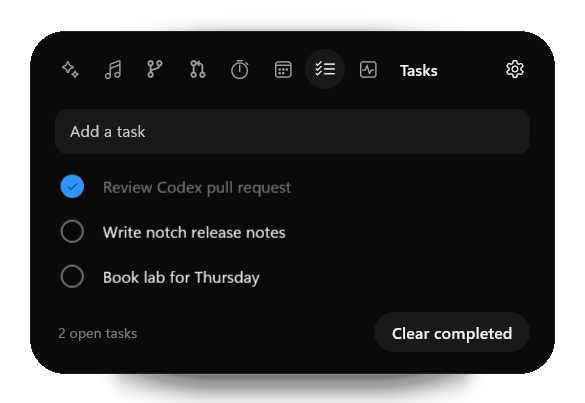
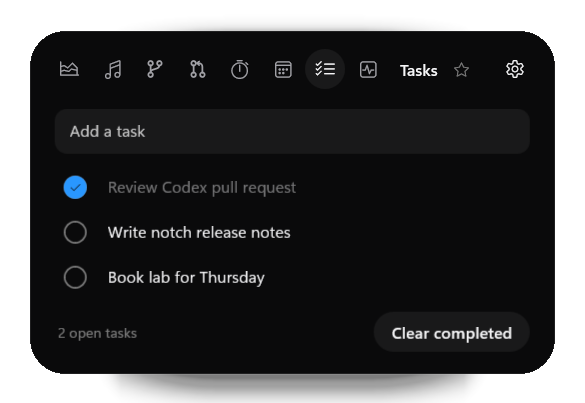
docs: update Developer Island documentation
- README: favorites and the featured compact island, Claude and Codex
  plan usage (Current / Weekly, connecting Claude Code's status line),
  "estimated API equivalent today", Auto-hide in apps, the 60-second
  System history with temperatures and fans, calendar links in
  Credential Manager, --system-report, privacy notes for the new files,
  294 tests, LibreHardwareMonitor acknowledgement; fresh screenshots.
- ARCHITECTURE: named state machine inputs and race safety, modules
  and their cadences, favorites, plan usage, auto-hide rules, secrets,
  the plan_usage_peaks table.
- PERFORMANCE: this iteration's measurements and what disabled
  modules do (nothing).
- DESIGN-AUDIT: iteration 3 audit, including the preservation check.
- STATUS (new, was linked but missing): what was verified and how,
  what was not verified on real hardware or accounts, known limits.

diff --git a/README.md b/README.md
@@ -21,15 +21,18 @@ Developer Island is a small capsule at the top of your screen. It shows your AI 
   - A **live activity** (medium state) appears for song changes, focus sessions, AI events and upcoming meetings, or while you hover.
   - The **expanded** island opens on click.
 - **Spring motion from the anchor.** The capsule morphs on the GPU compositor and grows away from the edge it rests on. Every animation can be interrupted and respects Windows "Animation effects".
-- **Hover that behaves.** A peek opens after a short, deliberate hover (about 280 ms). Hover is judged against the visible capsule, so it never sticks, and a click outside the expanded island closes it without reopening it.
-- **Browser notch.** A top-center island covers the tab strip of a maximized browser. While Chrome, Edge or Firefox is maximized in front, the island retracts into a small notch in the screen edge (48 × 5 px). Hover it for 400 ms or click it to open. You can hide it completely instead, or turn it off per browser.
+- **Your module, in the capsule.** Star any module in the expanded island and the compact island features it: "Claude 68% · €2.96", the song, the focus countdown, "CPU 38% · 54°", "14:30 Robotics". Several favorites take turns every 7 seconds; without favorites the module you opened last is shown. Time-critical signals (focus, next event, system alert, failing CI) stay in front.
+- **Hover that behaves.** A peek opens after a short, deliberate hover (about 280 ms). Hover is judged against the visible capsule, so it never sticks. A capsule that just grew under a resting mouse does not take your next click, and any click outside the expanded island closes it.
+- **Auto-hide in apps.** A top-center island covers tabs and title bars. While an app you list is in front (Chrome, Edge and Firefox by default, or any app you add), the island retracts into a small notch in the screen edge (48 × 5 px). Hover it for 450 ms or click it to open. Choose per app, hide completely instead, or retract only while the app is maximized.
 - **Anywhere you want it.** It sits at Top Center by default. There are five more anchors, or you can drag it anywhere; near an anchor it snaps into place. The monitor, anchor and offset are saved, and the island falls back to the primary monitor when that display is disconnected.
 - **Out of the way.** The window region follows the capsule, leaving the rest of the desktop clickable. Hovering or dragging does not activate the island. It steps aside while a fullscreen app is on its monitor.
 - **Keyboard.** **Ctrl + Alt + Space** opens or closes the island from anywhere; three other combinations are available if another app already uses it. Esc closes the island, and focus returns to where you were. Tab and the arrow keys move through the expanded view.
 - **Tray and autostart.** The notification-area menu offers Show, Hide, Start Focus, New Task, Settings and Quit. Start with Windows is a native per-user setting, with no scripts.
 
 <p align="center">
-  <img src="docs/assets/notch.png" alt="The browser notch: a small dark tab in the top screen edge" width="120">
+  <img src="docs/assets/compact-featured-claude.png" alt="Compact island featuring Claude: plan usage and today's estimated API equivalent" width="440">
+  <br>
+  <img src="docs/assets/notch.png" alt="The notch: a small dark tab in the top screen edge" width="120">
 </p>
 
 ## Modules
@@ -53,9 +56,15 @@ Tokens are counted the way the providers bill them:
 | **Fresh** | Input + cache write + output: the work of the day |
 | **Processed** | Fresh + cache read: everything the model processed |
 
-The compact island shows **fresh** tokens; the expanded view shows the full breakdown. Cache reads repeat the whole conversation context on every turn, so in long agent sessions they are often 80–90 % of processed tokens; counting them as "usage" made earlier numbers look inflated. The usage graph is shaded by fresh tokens too.
+Each provider shows its **plan usage** first, when it is known:
 
-The **estimated API equivalent** in euros prices every category at public list prices, including cache writes (1.25× or 2× input) and cache reads (0.1× input unless listed). If you use a subscription, it is not what you pay. Models without a known list price are reported as "partly priced" instead of being guessed. Codex also shows its latest primary rate-limit usage (usually a 5-hour window), with a live activity at 50, 75 and 90 %.
+- **Claude Code:** the current (5-hour) and weekly (7-day) windows with their reset times, as Claude Code reports them to its status line. Connect it once in Settings, Modules, "Claude plan usage": Developer Island becomes Claude Code's status line command, receives only those two percentages and reset times, shows nothing in the terminal, and leaves an existing status line of yours alone. Plan usage exists for Claude subscriptions only.
+- **Codex:** the 5-hour and weekly windows from its own logs.
+- A **Current / Weekly** switch picks the window. Without data the block says "Unavailable" and why. Percentages are never computed from token counts.
+
+Below it, **Today on this PC** keeps the full local breakdown. The compact island shows plan usage when known, otherwise **fresh** tokens, plus today's estimated API equivalent; the expanded view shows the full breakdown, and a tooltip on the figure lists every exact count. Cache reads repeat the whole conversation context on every turn, so in long agent sessions they are often 80–90 % of processed tokens; counting them as "usage" made earlier numbers look inflated. The usage graph is shaded by fresh tokens too.
+
+The **estimated API equivalent today** in euros prices every category at public list prices, including cache writes (1.25× or 2× input) and cache reads (0.1× input unless listed). If you use a subscription, it is not what you pay. Models without a known list price are reported as "partly priced" instead of being guessed. Codex also shows its latest primary rate-limit usage (usually a 5-hour window), with a live activity at 50, 75 and 90 %.
 
 ### Music
 
@@ -83,7 +92,7 @@ Notifications, your open pull requests, review requests, and the active reposito
   <img src="docs/assets/expanded-calendar.png" alt="Calendar module: the next event and today's agenda" width="480">
 </p>
 
-Your next event and today's agenda. Add a calendar's private iCal link (Google, Outlook and iCloud offer one in their sharing settings) or an `.ics` file. Within the hour, the compact island shows the next event, for example **14:30 · Robotics**, and announces it once. Time zones, all-day events, recurring events (daily, weekly, monthly, yearly, with exceptions) and cancelled or moved occurrences are handled. Calendars are refreshed every 15 minutes. The architecture is provider-based, so account-based calendars can be added later without changing the module.
+Your next event and today's agenda. Add a calendar's private iCal link (kept in Windows Credential Manager, never in settings or logs) (Google, Outlook and iCloud offer one in their sharing settings) or an `.ics` file. Within the hour, the compact island shows the next event, for example **14:30 · Robotics**, and announces it once. Time zones, all-day events, recurring events (daily, weekly, monthly, yearly, with exceptions) and cancelled or moved occurrences are handled. Calendars are refreshed every 15 minutes. The architecture is provider-based, so account-based calendars can be added later without changing the module.
 
 ### Tasks
 
@@ -102,19 +111,26 @@ A small local to-do list. Type and press Enter to add a task; click the circle t
 
 ### System
 
-CPU, memory and battery. The compact island speaks up only when something needs attention: a battery at 20 % or less that is not charging, or a CPU busy above 85 % for 15 seconds.
+<p align="center">
+  <img src="docs/assets/expanded-system.png" alt="System module: CPU, memory and GPU with 60-second graphs, battery, a storage temperature and a fan" width="480">
+</p>
+
+CPU, memory, GPU and battery, each with its last 60 seconds as a quiet graph, plus the temperatures and fans this device exposes (CPU and GPU temperatures in their tiles, storage, board and ACPI thermal zones and fan speeds as rows below). Hardware that does not exist, or that Windows does not expose without administrator rights, is not shown at all; the tiles re-flow. Readings come from Windows and [LibreHardwareMonitor](https://github.com/LibreHardwareMonitor/LibreHardwareMonitor), read-only. Manual fan control is not offered: no supported interface guarantees that fans return to firmware control if the app crashes. Run `DeveloperIsland.exe --system-report` to see what your device exposes.
+
+The compact island speaks up only when something needs attention: a battery at 20 % or less that is not charging, or a CPU busy above 85 % for 15 seconds. Featured, it shows "CPU 38% · 54°" (or GPU or memory, whatever exists).
 
 ## Settings
 
 <p align="center">
   <img src="docs/assets/settings-modules.png" alt="Settings, Modules section with every module, its order and its switch" width="720">
+  <img src="docs/assets/settings-auto-hide.png" alt="Settings, Auto-hide in apps with Chrome, Edge and Firefox and buttons to add apps" width="720">
 </p>
 
 | Section | Settings |
 |---|---|
 | General | Start with Windows, always on top, launch hidden, keyboard shortcut |
-| Position | Monitor, anchor, custom position; browser notch (on or off, notch or hide, per browser) |
-| Modules | Every module on or off and in which order; Git repositories; calendars |
+| Position | Monitor, anchor, custom position; Auto-hide in apps (on or off, notch or hide, only when maximized, an app list with icons and Add application or Browse) |
+| Modules | Every module on or off and in which order; Claude plan usage (connect or disconnect); Git repositories; calendars |
 | Appearance | System or Dark (the island itself is always dark) |
 
 Changes apply immediately.
@@ -126,7 +142,8 @@ Changes apply immediately.
 - No accounts, telemetry or cloud sync. The only network requests are the ones you set up: the calendar links you add, and the GitHub CLI's read-only requests to GitHub when the GitHub module is on and `gh` is signed in.
 - The app reads local JSONL files that can also contain conversation content, but extracts only usage and session metadata: token counts, model, timestamps, session IDs and the working directory. It does not retain, display, log or upload prompt, message or code content.
 - The local database (`%LOCALAPPDATA%\DeveloperIsland\usage.db`) contains token counts, model names, timestamps, session IDs, project folder names, daily totals and focus sessions.
-- `settings.json` holds your settings, including repository paths and calendar links; `tasks.json` holds your tasks. Calendar event titles are kept in memory only.
+- `settings.json` holds your settings, including repository paths, favorites and the auto-hide app list; `tasks.json` holds your tasks; `ui-state.json` remembers the module you opened last. Private calendar links are kept in Windows Credential Manager and appear in settings only as "Google Calendar" or similar. Calendar event titles are kept in memory only.
+- `claude-plan.json` holds the last Claude plan percentages and reset times that Claude Code handed over, nothing else from its status line input (no paths, model, cost or session).
 - Logs (`%LOCALAPPDATA%\DeveloperIsland\logs`) contain app events and error types, never content, repository names, task titles, event titles or calendar links. They are kept for 7 days.
 - The API equivalent uses a static price catalog and exchange rate. You can adjust both in `%LOCALAPPDATA%\DeveloperIsland\pricing.json`, for example:
 
@@ -178,10 +195,13 @@ The scripts find the .NET 10 SDK themselves, even when the `dotnet` on PATH is a
 
 ```powershell
 dotnet build src/DeveloperIsland -c Debug                      # build the app
-dotnet test tests/DeveloperIsland.Tests                         # 241 tests
+dotnet test tests/DeveloperIsland.Tests                         # 294 tests
 src/DeveloperIsland/bin/x64/Debug/net10.0-windows10.0.22621.0/win-x64/DeveloperIsland.exe --demo
 
-# Render every state (compact, peek, each module, notch, empty and error states, Settings)
+# What the System module can read on this device:
+...\DeveloperIsland.exe --system-report
+
+# Render every state (compact, peek, each module, featured modules, notch, empty and error states, Settings)
 # to PNG files offscreen, without touching the desktop:
 ...\DeveloperIsland.exe --demo --snapshot=C:\temp\island-shots
 
@@ -195,7 +215,11 @@ The tests cover:
 - token accounting (fresh versus processed, cache categories, local-day boundaries and daylight saving)
 - usage aggregation, de-duplication, cost calculation and incremental daily totals
 - malformed log records, persisted Codex limits, cursor upgrades and limit expiry
-- the island state machine, hover tracking and the browser-notch policy
+- the island state machine (named inputs, lost pointer events, drags, stale timers), hover tracking, click arming and the per-app auto-hide rules
+- favorites, the module opened last and compact rotation
+- Claude plan usage from the status line input, its store and Claude Code settings changes; Codex weekly windows; measured plan peaks
+- hardware capabilities, the 60-second history and the fan-control safety rules
+- calendar links in Windows Credential Manager and the migration from plain text
 - the focus timer, including restore after restart
 - media session choice and track changes
 - Git status parsing and a real repository end to end; GitHub CLI output; ICS parsing and recurrence; tasks; system alerts
@@ -219,7 +243,8 @@ src/
   DeveloperIsland.Core/     platform-independent logic, covered by unit tests
     Providers/  Usage/      Claude Code and Codex providers, parsers, aggregation, history
     Pricing/  Storage/      API equivalent; SQLite (events, daily totals, focus, cursors)
-    Modules/                module ids, states and order
+    Modules/                module ids, states and order; the featured-module selector
+    Plan/                   Claude plan usage: status line input, store, Claude Code settings
     Git/  GitHub/           git status via the git CLI; read-only GitHub via the gh CLI
     Calendar/  Tasks/       ICS parsing and calendar sources; the task list
     SystemInfo/  Focus/     system alerts and sampling; focus timer, history and restore
@@ -253,4 +278,4 @@ Design principles:
 - [Taste Skill](https://github.com/Leonxlnx/taste-skill)
 - [Vercel Web Interface Guidelines](https://github.com/vercel-labs/web-interface-guidelines)
 
-Icons are Segoe Fluent Icons, plus drawn Git and pull-request marks. Claude and Codex are shown with simple generic marks, not their logos. Built with the Windows App SDK and WinUI 3.
+Icons are Segoe Fluent Icons, plus drawn Git and pull-request marks. Claude and Codex are shown with simple generic marks (an open "C" ring and a hexagon), not their logos. Hardware sensors use [LibreHardwareMonitor](https://github.com/LibreHardwareMonitor/LibreHardwareMonitor) (MPL-2.0). Built with the Windows App SDK and WinUI 3.

diff --git a/docs/ARCHITECTURE.md b/docs/ARCHITECTURE.md
@@ -4,9 +4,9 @@ Developer Island is two projects plus tests:
 
 | Project | Target | Contents |
 |---|---|---|
-| `DeveloperIsland.Core` | `net10.0` | Everything that does not need Windows UI: models, parsers, providers, pricing, SQLite storage, settings, placement math, focus timer, island state machine, demo data. Fully unit-tested. |
-| `DeveloperIsland` | `net10.0-windows10.0.22621.0`, WinUI 3 | The app: composition root, view models, views, motion, and platform integration (windowing, tray, autostart, media sessions, monitors). |
-| `DeveloperIsland.Tests` | `net10.0`, xUnit v3 | 132 tests against Core. |
+| `DeveloperIsland.Core` | `net10.0` | Everything that does not need Windows UI: models, parsers, providers, pricing, SQLite storage, settings, placement math, focus timer, island state machine, module logic (Git, GitHub, calendar, tasks, system, plan usage, favorites), demo data. Fully unit-tested. |
+| `DeveloperIsland` | `net10.0-windows10.0.22621.0`, WinUI 3 | The app: composition root, view models, views, motion, and platform integration (windowing, tray, autostart, media sessions, monitors, hardware sensors, hotkey). |
+| `DeveloperIsland.Tests` | `net10.0`, xUnit v3 | 294 tests against Core, including a real `git` repository and a Windows Credential Manager round trip. |
 
 ## Data flow
 
@@ -56,6 +56,7 @@ SQLite (`Microsoft.Data.Sqlite`) at `%LOCALAPPDATA%\DeveloperIsland\usage.db`, W
 | `daily_usage` | Per day and provider: tokens, API value, partial flag, sessions. Kept indefinitely. |
 | `focus_sessions` | Start, end, day, planned and focused seconds, completed. |
 | `file_cursors` | Read positions and parser state for incremental parsing. |
+| `plan_usage_peaks` | Migration 2. The highest plan usage actually reported per day, provider and window. Never computed or backfilled. |
 
 `UsageHistoryService` keeps running accumulators for the three most recent days. A write adds only the newly inserted events instead of re-reading the day. A randomized test checks that incremental totals equal a full recompute.
 
@@ -84,13 +85,51 @@ The hard parts of a Dynamic-Island-style window on Windows, and how they are sol
 | DPI and multi-monitor | Placement math is pure (`IslandPlacement`) and works in physical pixels per monitor scale. After load and after any DPI change the window is placed again, because Windows rescales windows that move between monitors. |
 | Fullscreen apps | `FullscreenWatcher` combines a foreground WinEvent hook with the shell's `ABN_FULLSCREENAPP` notification. It ignores maximized windows, captioned windows and our own windows. |
 
-`IslandStateMachine` (Core, tested) decides the mode:
+`IslandStateMachine` (Core, tested) decides the mode. Its inputs are named (`IslandInput`: PointerEntered, PointerExited, HoverDelayElapsed, Clicked, ClickedOutside, ActiveAppChanged, ModuleEvent, DragStarted, DragEnded) and documented in a transition table in the source.
 
-- **Compact** at rest.
-- **Activity** on hover after a 280 ms dwell, or for an event (default 4.5 s, and never closes while hovered).
-- **Expanded** on click.
+- **Compact** at rest, or **Retracted** (the notch) or **Hidden** while an auto-hide app is in front.
+- **Activity** (medium) on hover after a 280 ms dwell (450 ms on the notch), or for an event (default 4.5 s).
+- **Expanded** on click or the global shortcut.
 - **Hidden** from the tray or for a fullscreen app.
+- **Dragging** is a flag of the machine: timers, events, hover and clicks wait until the drag ends.
+
+Race safety:
+
+- Every timer carries a generation number; a timer overtaken by a newer input never acts.
+- When a timer fires, `PointerProbe` reports where the pointer really is, so a lost pointer-exit cannot keep an activity or peek open (an open peek re-checks every second).
+- `HoverTracker` judges hover against the visible capsule and only counts movement as entering. A click counts only after the pointer moved onto the capsule, so a capsule that grows under a resting mouse cannot turn the next click into an expansion.
+- While expanded, `OutsideClickWatcher` (a low-level mouse hook installed only in that state) closes the island on any press outside it, even if Windows refused it focus.
+
+## Modules
+
+Every module follows **Provider, then State, then ViewModel, then View**, with one panel per module and the shared states of `ModuleStatus` (disabled, loading, ready, empty, unavailable, error). `ModuleHost` owns the services added after V1 and applies settings: a disabled module's service runs no watchers, timers or processes.
+
+| Module | Source | Cadence |
+|---|---|---|
+| Git | `git` CLI for repositories added in Settings or seen in AI sessions (walks up from a session folder only) | Watches `.git` metadata; reads only while the panel is open, else on first sight; a branch switch is read from `.git/HEAD` without starting git |
+| GitHub | `gh api` (read-only, the user's own sign-in) | Every 5 min while enabled, on open when older than 1 min |
+| Calendar | ICS links or files (`ICalendarSource`) | Every 15 min |
+| Tasks | `tasks.json` | On change |
+| System | `SystemMetricsReader` (CPU, memory, battery), `HardwareSensors` (LibreHardwareMonitor: GPU load every second, temperatures and fans every 5 s; ACPI thermal zones via PDH) | 1 Hz, 60-sample history; the UI hears about samples only while the panel is open or System is featured |
+
+`HardwareCapabilities` is derived from the samples themselves, so a component that does not exist simply never appears. Manual fan control is gated by `FanControlCapability`, which requires a crash-safe fallback to firmware control; no supported interface offers that, so the island monitors only. `DeveloperIsland.exe --system-report` prints what a device exposes.
+
+## Compact island and favorites
+
+`CompactSelector` picks the featured module: one favorite is shown, several rotate every 7 s (skipping those with nothing to say), otherwise the module opened last (`ui-state.json`), otherwise the classic summary. The rotation timer runs only while the compact capsule is on screen. Time-critical chips (focus, next event, system alert, failing CI) stay unless the featured module already shows them.
+
+## Plan usage
+
+Claude plan usage comes from Claude Code's documented status line input (`rate_limits.five_hour` and `seven_day`: `used_percentage`, `resets_at`). `ClaudeStatusLineSetup` adds Developer Island as the `statusLine` command in Claude Code's `settings.json` on request (backup first, never replacing a status line the user already has). `DeveloperIsland.exe --claude-statusline` runs before any UI, keeps only those numbers in `claude-plan.json`, prints nothing and always exits 0. `PlanUsageService` follows that file with a watcher. Codex's 5-hour and weekly windows come from its own rollout records. A window that has reset no longer shows its percentage.
+
+## Auto-hide in apps
+
+`AutoHideApps` (settings) lists apps with their own switches; the older `SmartHideProcesses` list is kept in sync for compatibility. `ForegroundWatcher` (WinEvent hooks, no polling) reports the foreground app; `SmartHidePolicy` decides Compact, Retracted or Hidden from the rules, the anchor (top center only) and, optionally, whether the window is maximized. Foreground bursts settle for 150 ms.
+
+## Secrets
+
+Private calendar links are kept in Windows Credential Manager (`CredentialManagerSecretStore`, generic credentials for this user). `settings.json` holds only an id and the provider name; earlier plain-text links are migrated on start. Demo mode uses an in-memory store.
 
 ## Composition root
 
-`AppHost` wires everything and is the only place that crosses threads (`DispatcherQueue.TryEnqueue`). A single instance is enforced with a named mutex; a second launch signals a named event and exits. `--demo` swaps in an in-memory database, demo providers and a demo media queue, and uses its own settings file and instance name.
+`AppHost` wires everything and is the only place that crosses threads (`DispatcherQueue.TryEnqueue`); `ModuleHost` does the same for the newer modules. A single instance is enforced with a named mutex; a second launch signals a named event and exits. `--demo` swaps in an in-memory database, demo providers and a demo media queue, and uses its own settings file and instance name.

diff --git a/docs/STATUS.md b/docs/STATUS.md
@@ -1,0 +1,32 @@
+# Status
+
+What was verified, how, and what is still open. Updated 2026-10-01.
+
+## Verified
+
+| Area | How |
+|---|---|
+| Unit and integration tests | 294 tests pass (`dotnet test`), including a real `git` repository, a Windows Credential Manager round trip, ICS recurrence across daylight saving and the island state machine's transitions. |
+| Release build | `tools/build-release.ps1` builds tests, publish, portable zip and installer in a shell whose PATH has no .NET 10 SDK (the script finds it). |
+| Every island state | Rendered offscreen with `--demo --snapshot` (35 renders) and compared with the previous build: compact, peek, activities, notch, each expanded module, empty and error states, each featured module, favorite rotation, every Settings page. |
+| Claude plan bridge | `--claude-statusline` fed with a sample in the documented format: exit 0, no output, only percentages and reset times stored (no path, model, cost or session). |
+| Hardware detection | `--system-report` on a Lenovo laptop without admin rights: CPU, memory, Intel GPU load, battery and two ACPI thermal zones detected; no CPU temperature, no fans, so those are hidden. |
+| Auto-hide | Earlier iteration: Chrome maximized in front retracted the island live; foreground changes are now debounced. |
+| Performance | See [PERFORMANCE.md](PERFORMANCE.md). |
+
+## Not verified on real hardware or accounts
+
+- Claude plan usage end to end with a Claude subscription: the status line format comes from Claude Code's built-in documentation and the bridge is tested with a sample, but no live session was connected during development (connecting edits the user's Claude Code settings).
+- GitHub with the GitHub CLI signed in (only the JSON parsing is tested; the CLI is not installed on the development machine).
+- A live calendar link (parsing and storage are tested with samples).
+- GPU temperatures, storage temperatures and fans (the development machine exposes none without admin rights).
+- Hover and click timing by hand: input was never simulated; behavior is covered by state machine tests.
+
+## Known limitations
+
+- Manual fan control is not offered: no supported interface guarantees that fans return to firmware control if the app crashes or is killed. Monitoring only.
+- CPU package temperatures need LibreHardwareMonitor's driver and administrator rights; without them the CPU tile shows its load only.
+- ACPI thermal zones are real sensors, but Windows does not say what they measure, so they are labelled "Thermal zone" and not attributed to the CPU.
+- Plan usage updates when Claude Code sends a status line update (after replies), not on its own; after a window resets, the island shows no percentage until the next update.
+- When Claude Code already has a status line, Developer Island does not replace it; plan usage then needs a manual pipe into `DeveloperIsland.exe --claude-statusline`.
+- One placement is saved, not a layout per display. ARM64, Windows 10 and clean-machine installation still need independent validation.

diff --git a/docs/design/DESIGN-AUDIT.md b/docs/design/DESIGN-AUDIT.md
@@ -1,4 +1,24 @@
-# Design audit — V1 continuation
+# Design audit
+
+## Iteration 3: favorites, plan usage, system history (2026-10-01)
+
+Checked against [DESIGN-PRINCIPLES.md](DESIGN-PRINCIPLES.md) using offscreen renders of every state (`--demo --snapshot`), before and after, side by side.
+
+| Area | Result |
+|---|---|
+| Preservation | Every view of the previous build still exists (22 of 22 renders), every settings field and view-model property is still present, and the classic compact summary is unchanged when nothing is featured. Intended visual changes only: the Claude mark, the Usage tab icon, the favorite stars. |
+| Hierarchy | Claude and Codex columns read top to bottom: plan usage, then "Today on this PC" with the unchanged breakdown, value, limit and context lines. The compact island features one module at a time; time-critical chips stay in front. |
+| Color | One accent. Status colors stay semantic and small (CI dots, battery and temperature warnings at 90 °C); the sparkline fill is the accent at 18 %. Claude and Codex are still not color-coded. |
+| Icons | The Claude mark is now an open "C" ring that pairs with the Codex hexagon (same stroke and grid); the four-point spark read as Gemini. The Usage tab shows a usage chart, not a provider. Official logos are not bundled. |
+| Typography | 400/600 only. Ticking numbers use tabular figures, so the capsule no longer changes width every second. |
+| Hit targets | Fixed: favorite stars (26 → 32), plan segments (20 → 28 within a 32 control), plan Connect (26 → 32), task check and delete (28 → 32). |
+| Copy | No em or en dashes, "…" for ellipses, "estimated API equivalent today" for money, "Unavailable" with a reason when plan usage is missing. |
+| Honest data | Plan percentages are only shown when Claude Code or Codex reported them; history stores only measured peaks. Hardware that does not exist is not shown at all (no "GPU unavailable"). |
+| Layout | The expanded island may grow to 700 DIP; panels scroll instead of clipping if they ever outgrow it. System tiles re-flow without gaps (up to three in a row, four as two by two). |
+
+Remaining: Narrator pass of the new controls (segments, stars, app list), and checking the Auto-hide app picker with many running apps.
+
+## V1 continuation (2026-09-28)
 
 Reviewed 2026-09-28. This records the current source review and targeted runtime inspection, not a claim that every earlier implementation phase was independently audited.
 

diff --git a/docs/PERFORMANCE.md b/docs/PERFORMANCE.md
@@ -4,6 +4,22 @@ Developer Island runs all day, so idle cost matters more than peak speed.
 
 ## Measurements
 
+### Iteration 3 (2026-10-01)
+
+Lenovo laptop (i7-13700H, Intel Iris Xe, battery), Windows 11, no administrator rights. The user's own instance kept running during the measurements, so normal-mode figures come from the parts that changed.
+
+| Scenario | Result |
+|---|---|
+| System module sampling (1 Hz, GPU every second, temperatures and fans every 5 s), Release, 60 s | 125 ms CPU (0.2 % of one core) |
+| Same after switching off sensor groups that deliver nothing, Debug, 30 s | 78 ms |
+| Demo island with a running focus timer, Debug, 45 s, before this iteration | 1.2-2.0 s (the capsule re-measured and morphed every second) |
+| Same with tabular figures | 0.84-0.95 s |
+| Disabled modules | No timers, watchers, sensors or processes (covered by tests) |
+
+The hardware sensor library adds memory while the System module is on (the measuring process had a 113 MB working set, 84 MB private); turning System off closes it. On this device LibreHardwareMonitor's CPU group would cost about 9 ms per update without delivering temperatures (they need a driver and administrator rights), so it is switched off after detection.
+
+### V1
+
 Windows 11 (26200), 1920 × 1200 at 125 % plus a 2560 × 1440 second monitor, Release build, self-contained, x64.
 
 | Scenario | Working set | Private bytes | CPU |
@@ -23,6 +39,7 @@ Measured with `Get-Process` over the stated window, after the startup scan.
 
 ## What keeps it cheap
 
+- **Modules that are off do nothing.** No watchers, timers, sensors or child processes. System samples once a second only while enabled and wakes the UI only while its panel is open or it is featured; Git starts `git` only while its panel is open (or once for a new repository); the favorite rotation runs only while the compact capsule is visible; the outside-click hook exists only while expanded.
 - **Event-driven only.**
   - FileSystemWatcher and SMTC events feed the providers.
   - One-shot timers handle midnight and the active-flag timeout.
